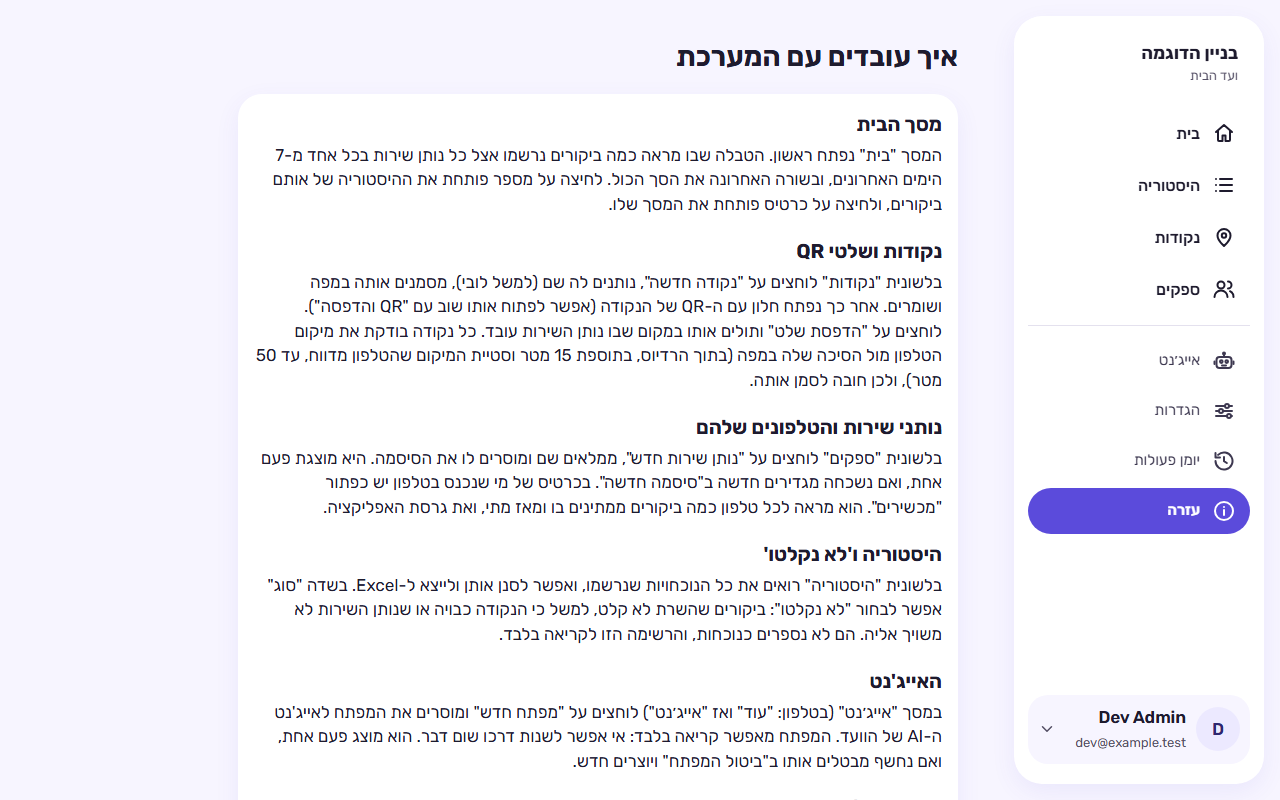
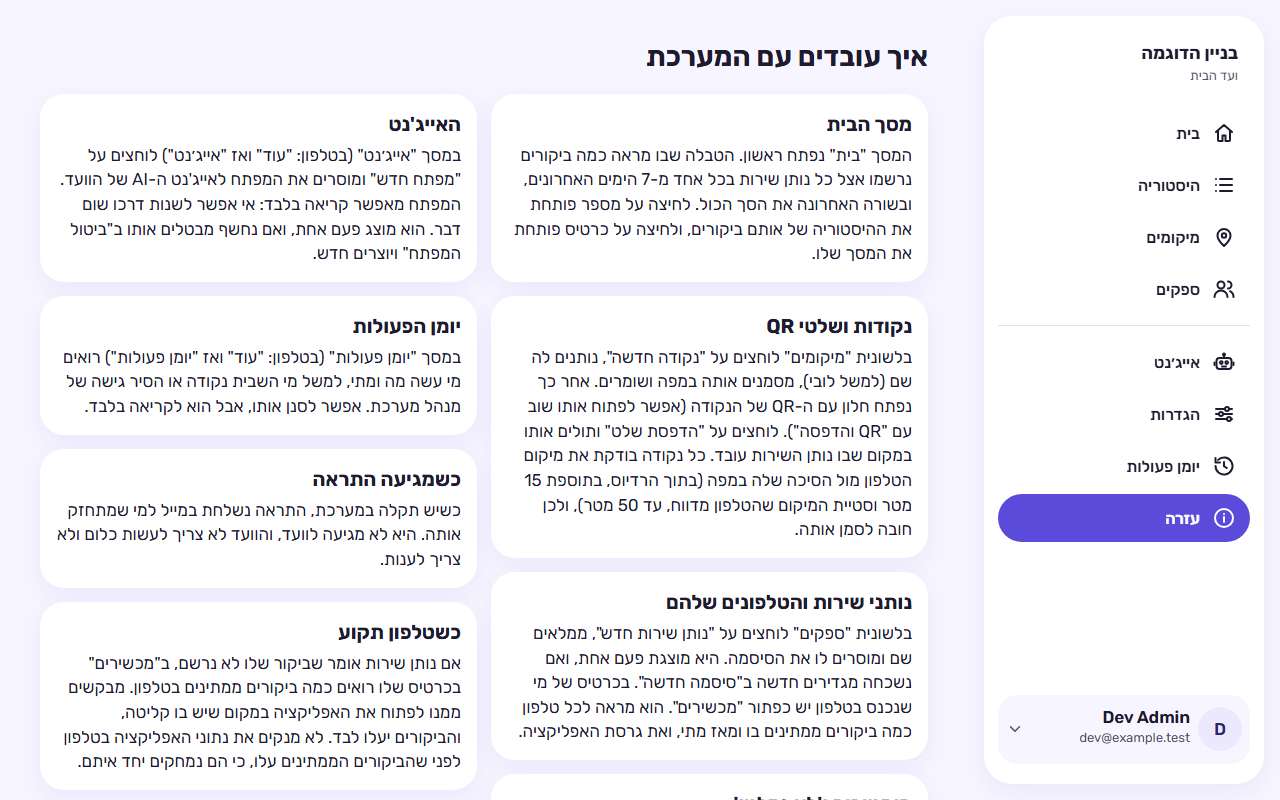
docs: the README screenshots after v2.7.0
Nine of the eleven pictures are taken again with `npm run screenshots`, the other
two (the check-in and the visit saved offline) differ from the old ones only in the
clock, so they stay. The alt texts of the README and the rows of
docs/screenshots/README.md say what the pictures now show: the sign-in title and
note, one "more" button on each card, the date filters with their calendar
buttons, and the Help topics in two columns.

diff --git a/README.md b/README.md
@@ -11,10 +11,10 @@ It is free and open source (MIT). Any building committee can install its own cop
 
 | Provider app: pick your account (first time on a phone) | Provider app: the check-in is recorded | Committee app on a phone: the points |
 |:---:|:---:|:---:|
-| <img src="docs/screenshots/provider-phone-sign-in.png" width="220" alt="The provider app on a phone, opened by a scan. A list of five names to choose from, in Hebrew."> | <img src="docs/screenshots/provider-phone-check-in.png" width="220" alt="The provider app after signing in. A green check mark and a message that the attendance was recorded, with the point, the time and the provider."> | <img src="docs/screenshots/committee-phone-points.png" width="220" alt="The committee app on a phone, the Points tab. A list of scan points under a button that adds one, each with its edit button and a "more" button."> |
+| <img src="docs/screenshots/provider-phone-sign-in.png" width="220" alt="The provider app on a phone, opened by a scan. A title that asks to choose the account, five accounts to choose from, in Hebrew, and a note that says what a scan records and that only the distance from the point is kept, not the position."> | <img src="docs/screenshots/provider-phone-check-in.png" width="220" alt="The provider app after signing in. A green check mark and a message that the attendance was recorded, with the point, the time and the provider."> | <img src="docs/screenshots/committee-phone-points.png" width="220" alt="The committee app on a phone, the Points tab. A list of scan points under a button that adds one, each with one button of three dots that holds its actions."> |
 
 <p align="center">
-  <img src="docs/screenshots/committee-computer-history.png" width="720" alt="The committee app on a computer, the History tab. Filters on top, and the visits grouped by day, each with its point, provider and time.">
+  <img src="docs/screenshots/committee-computer-history.png" width="720" alt="The committee app on a computer, the History tab. Filters on top (from and to dates, each with a calendar button, then the point, the provider and the type), and the visits grouped by day, each with its point, provider and time.">
   <br>
   <em>Committee app on a computer: the history of visits.</em>
 </p>

diff --git a/docs/screenshots/README.md b/docs/screenshots/README.md
@@ -14,16 +14,16 @@ end-to-end tests use.
 
 | Image | What it shows |
 |---|---|
-| `provider-phone-sign-in.png` | The provider app on a phone: a scan link opens the list of accounts to pick from |
+| `provider-phone-sign-in.png` | The provider app on a phone: a scan link opens the list of accounts to pick from ("choose your account"), with the note on what a scan records |
 | `provider-phone-check-in.png` | The same app after signing in: the check-in is recorded |
 | `provider-phone-saved-offline.png` | The same app with no network: the visit is kept on the phone and is sent by itself later |
 | `committee-phone-home.png` | The committee app on a phone: the Home screen, the summary card of the week (the screen that opens first) |
-| `committee-phone-points.png` | The committee app on a phone: the Points tab |
-| `committee-phone-history.png` | The committee app on a phone: the History tab, scrolled to the visits |
+| `committee-phone-points.png` | The committee app on a phone: the Points tab, each card with one button of three dots, the "more" button (the edit action is the first item of its menu) |
+| `committee-phone-history.png` | The committee app on a phone: the History tab, scrolled to the visits (on a phone the filters are behind a filter button, above the first day) |
 | `committee-computer-home.png` | The committee app on a computer (1280 px wide): the Home screen with the side rail |
 | `committee-computer-points.png` | The same, the Points tab |
-| `committee-computer-history.png` | The same, the History tab |
-| `committee-computer-help.png` | The same, the help screen ("How to work with the system") |
+| `committee-computer-history.png` | The same, the History tab, with the date filters (each date has a calendar button) |
+| `committee-computer-help.png` | The same, the help screen ("How to work with the system"), its topics in two flowing columns |
 | `committee-computer-points-dark.png` | The same, the Points tab in the dark theme |
 
 Phone pictures are 390 px wide, drawn at twice the density. Every image is a PNG of at most 300 KB (the script refuses a bigger
